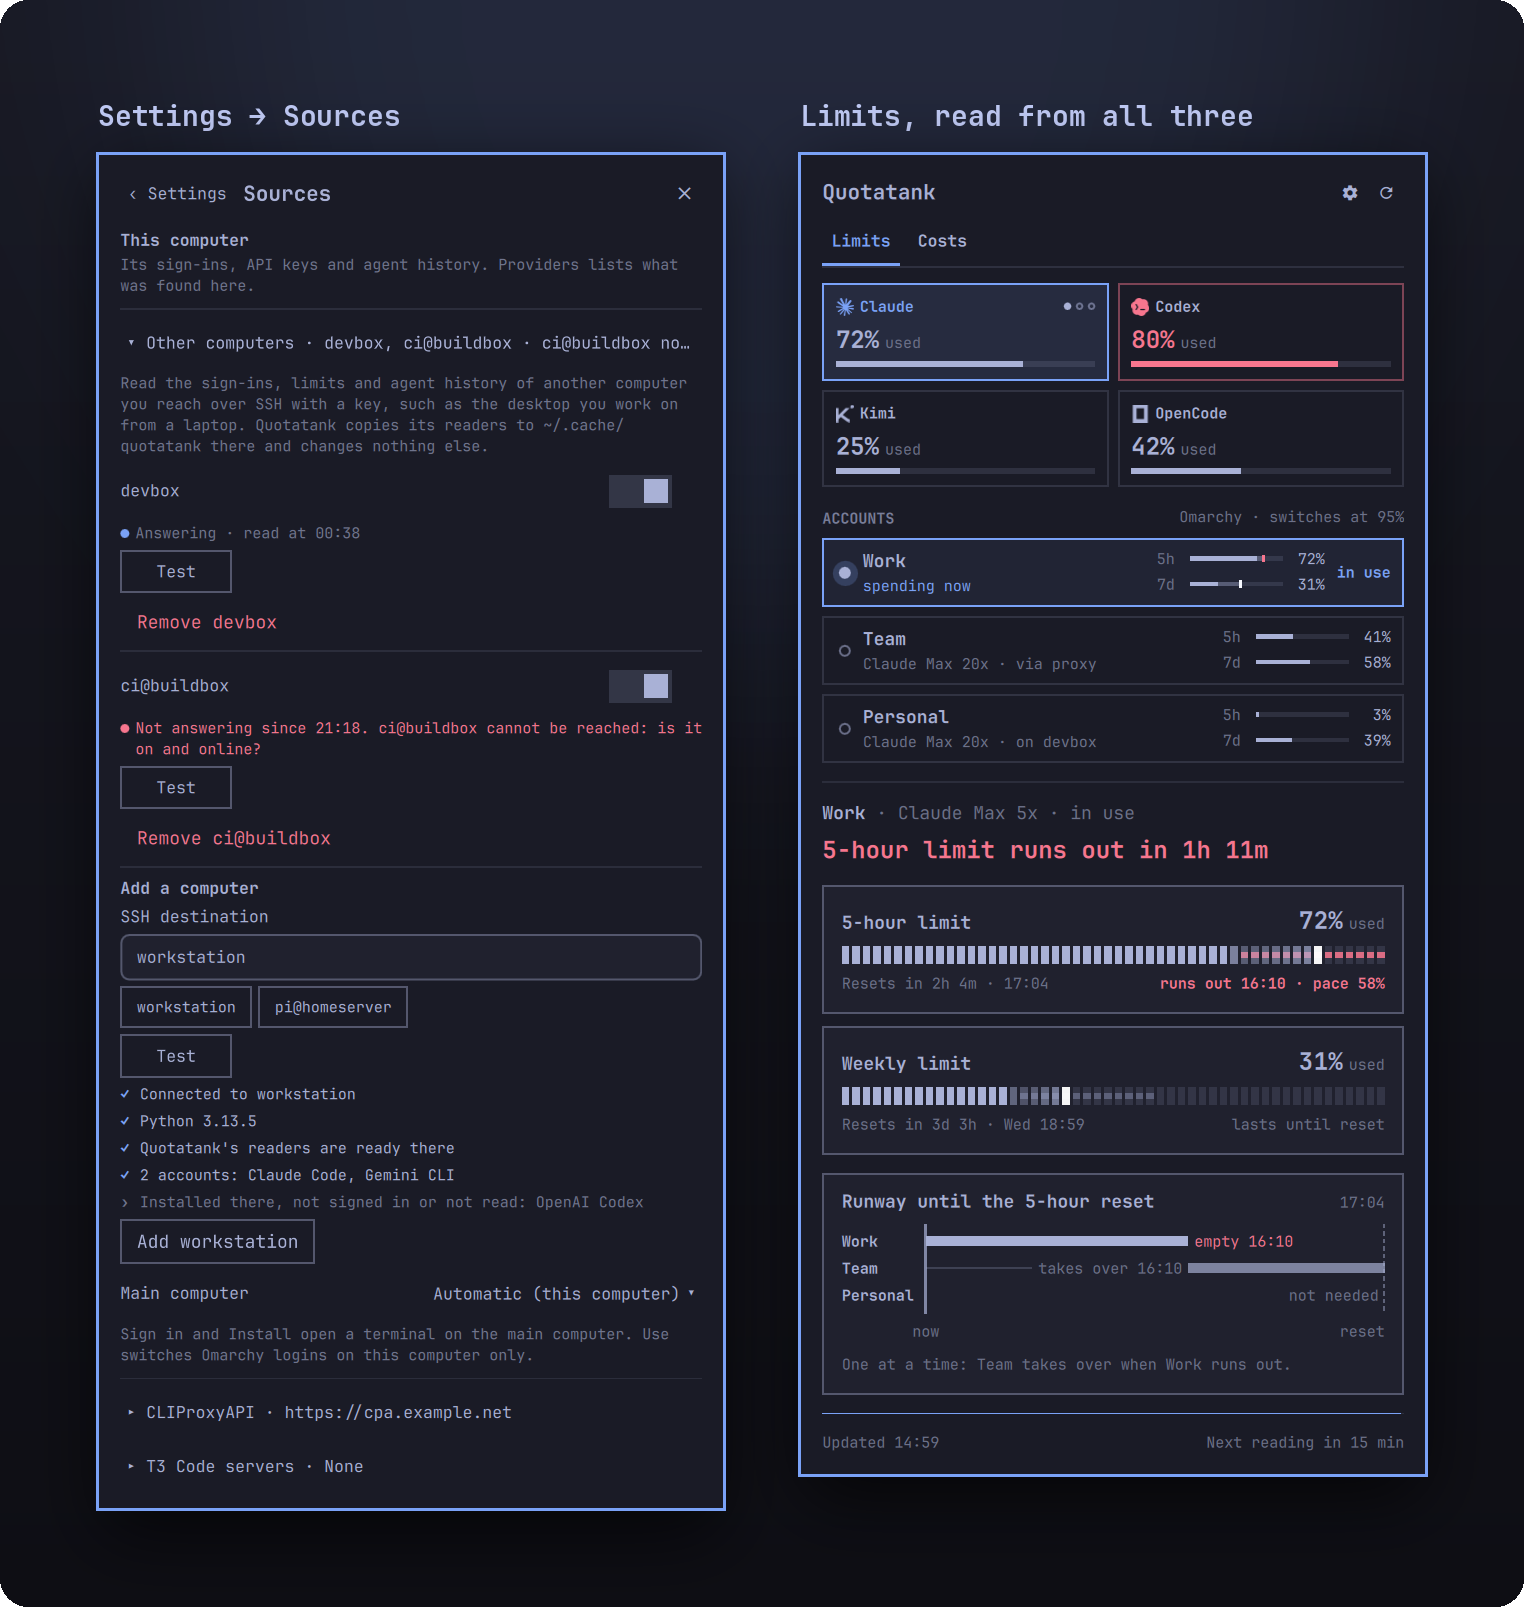
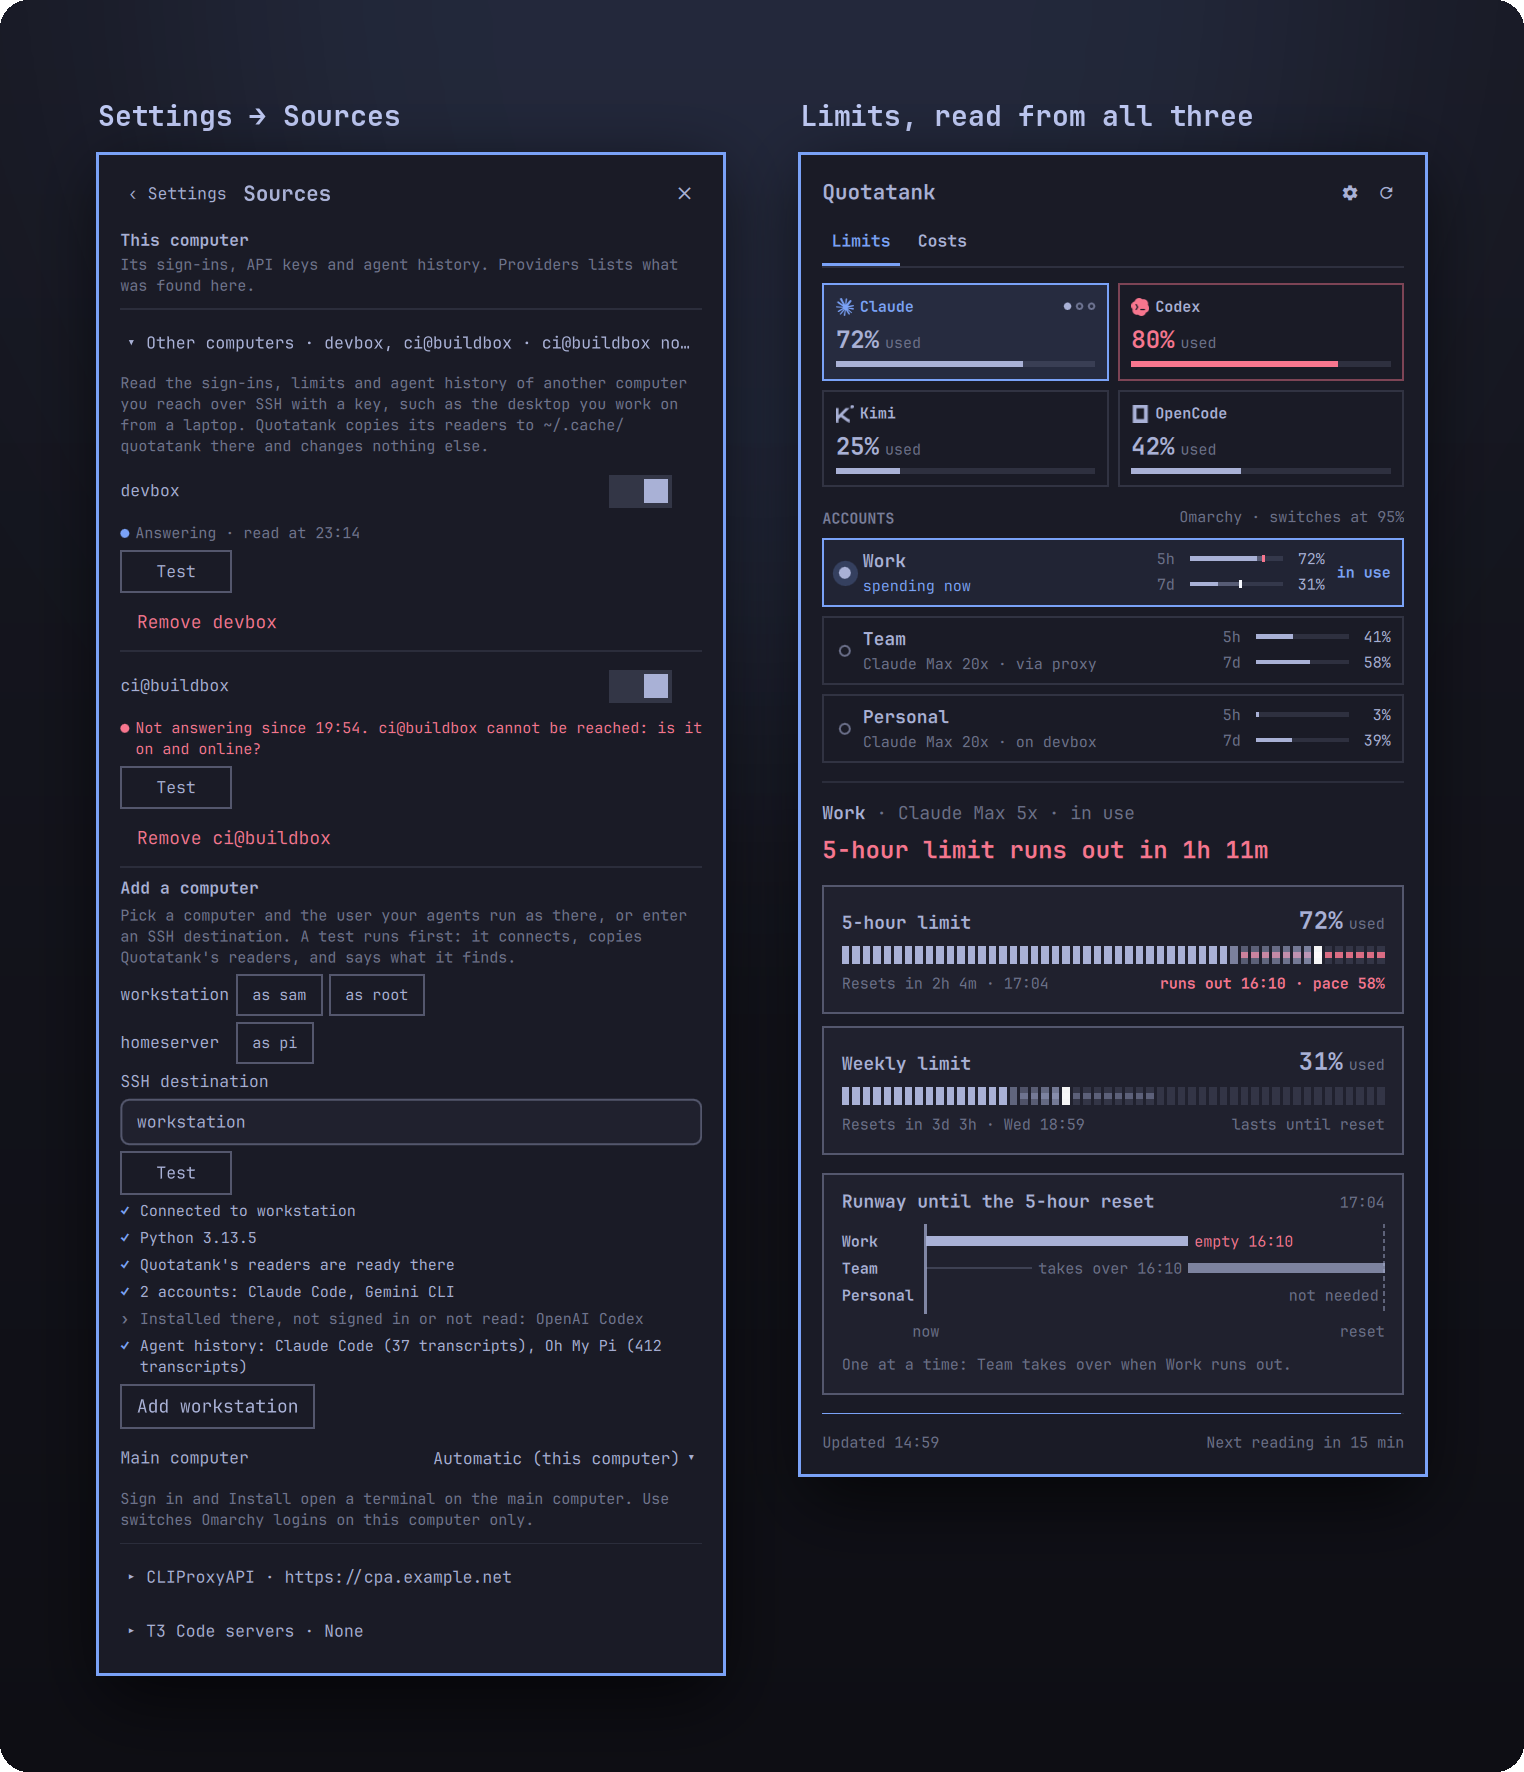
README: Sources image shows adding a computer by user, and the Test's agent history

diff --git a/README.md b/README.md
@@ -216,7 +216,7 @@ Privacy:
 
 On first open, a short setup walks **Sources** (where your agents run), **Providers** (what was found) and **Menu bar**. Everything is read together: the same account read in two places is one row.
 
-![Settings → Sources with devbox answering, ci@buildbox not answering since its last reading, and a Test of workstation that connected, found Python, readied the readers and read two accounts; beside it Limits, where the Claude accounts read here, on devbox and through CLIProxyAPI are one list: Work spending now, Team via proxy, and Personal on devbox](https://raw.githubusercontent.com/JanitorHead/omarchy-quotatank/main/docs/screenshots/sources.png)
+![Settings → Sources with devbox answering and ci@buildbox not answering since its last reading; under Add a computer, workstation offered as sam or as root and homeserver as pi, and a Test of workstation as sam that connected, found Python, readied the readers, read two accounts and found its agent history (Claude Code and Oh My Pi transcripts), with Add workstation; beside it Limits, where the Claude accounts read here, on devbox and through CLIProxyAPI are one list: Work spending now, Team via proxy, and Personal on devbox](https://raw.githubusercontent.com/JanitorHead/omarchy-quotatank/main/docs/screenshots/sources.png)
 
 ```mermaid
 flowchart TB
